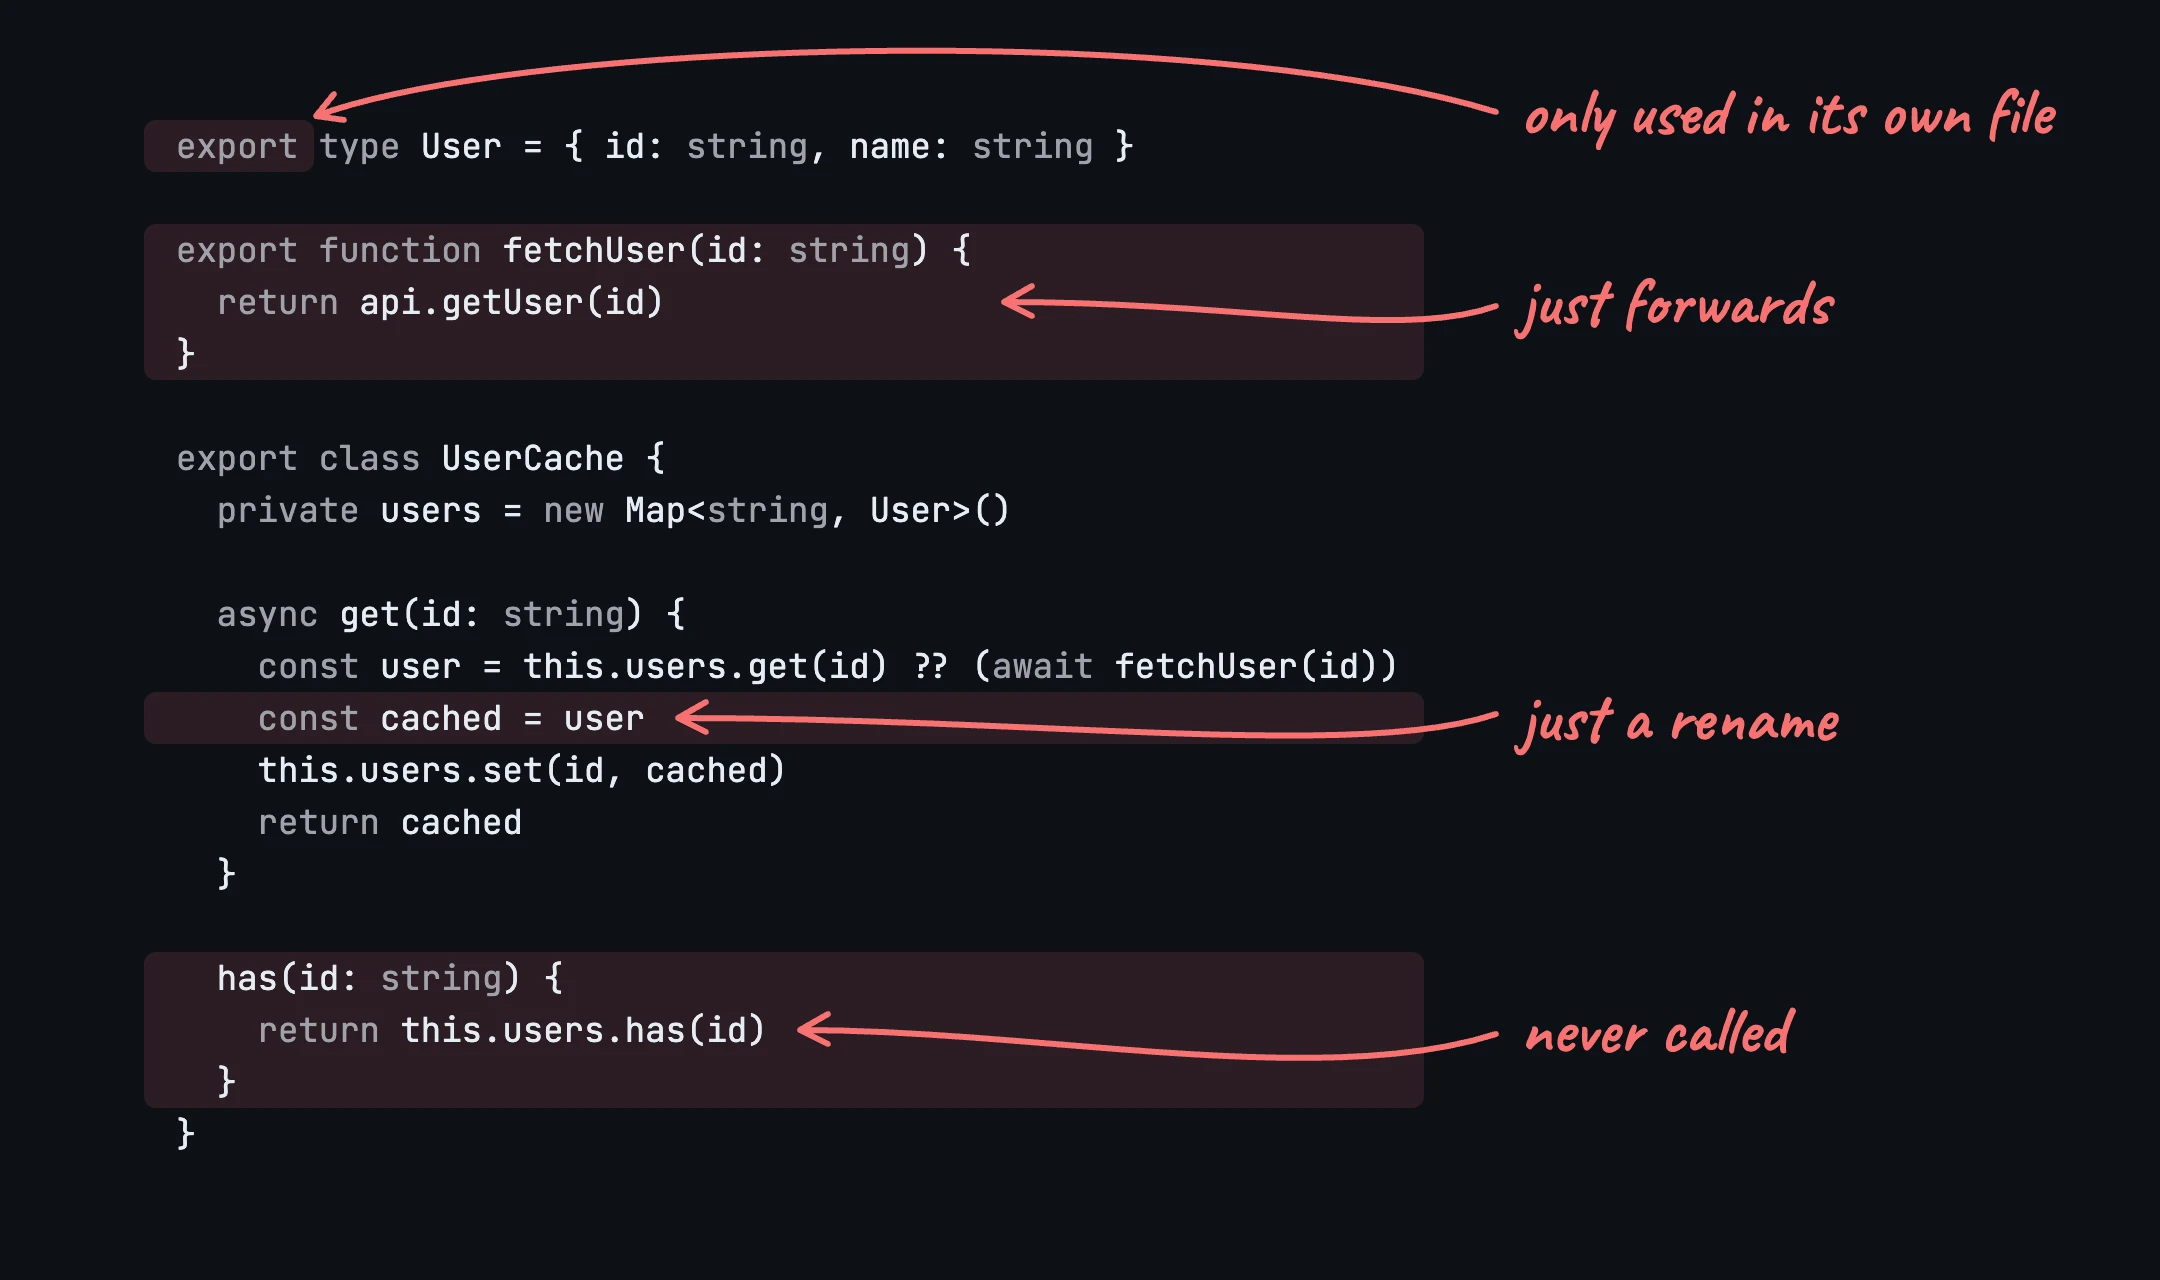
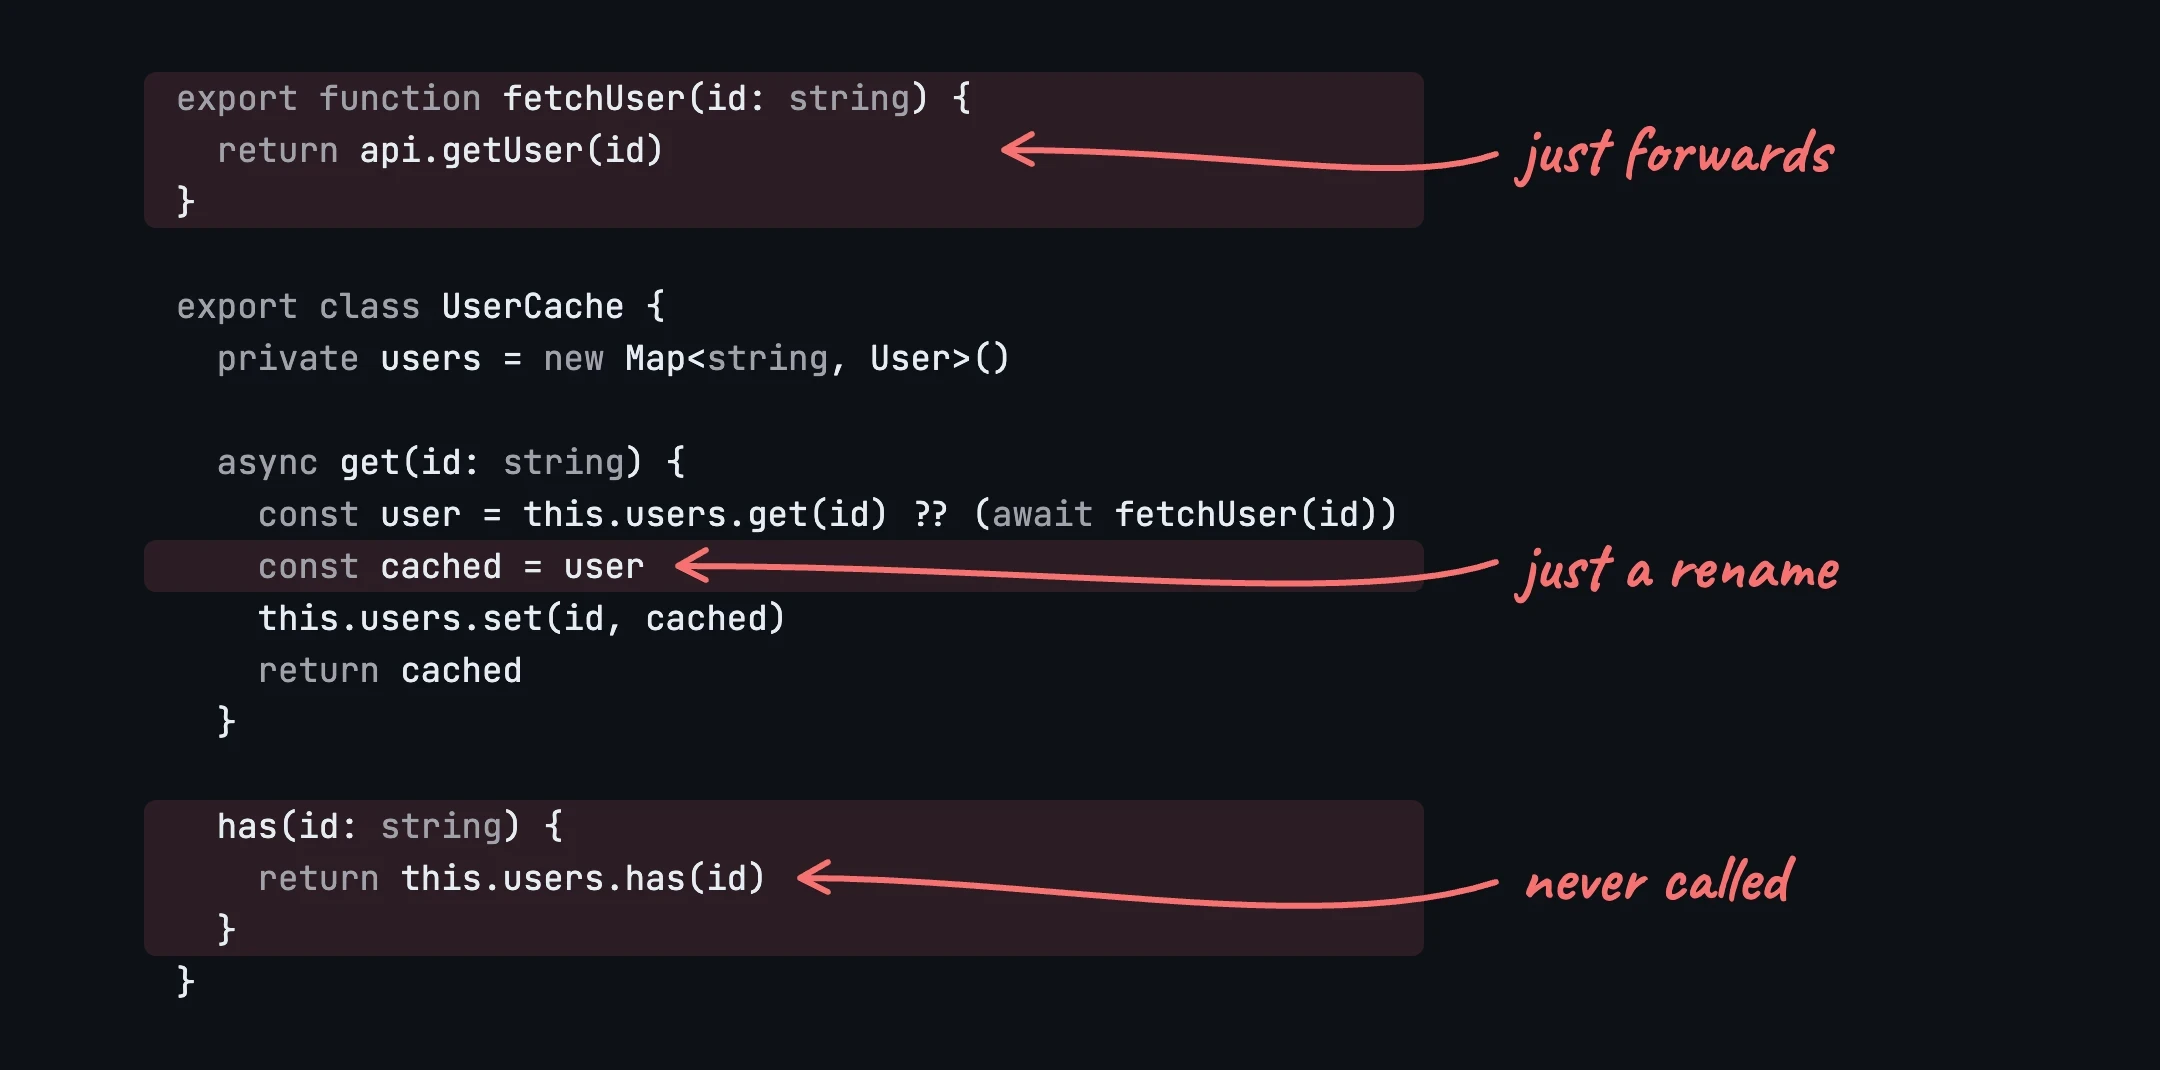
Crop README image to three annotations, dropping the export one

Changed region(s): [[0.062, 0.0308, 0.9616, 0.6477], [0.062, 0.7402, 0.8375, 0.8944]]

diff --git a/README.md b/README.md
@@ -11,8 +11,8 @@
 
 <p align="center">
   <picture>
-    <source media="(prefers-color-scheme: dark)" srcset="assets/readme-dark.webp?v=3">
-    <img src="assets/readme-light.webp?v=3" width="1080" alt="slop-police flags an export only used in its own file, a function that just forwards, a variable that is just a rename, and a method that is never called">
+    <source media="(prefers-color-scheme: dark)" srcset="assets/readme-dark.webp?v=4">
+    <img src="assets/readme-light.webp?v=4" width="1080" alt="slop-police flags a function that just forwards, a variable that is just a rename, and a method that is never called">
   </picture>
 </p>
 
